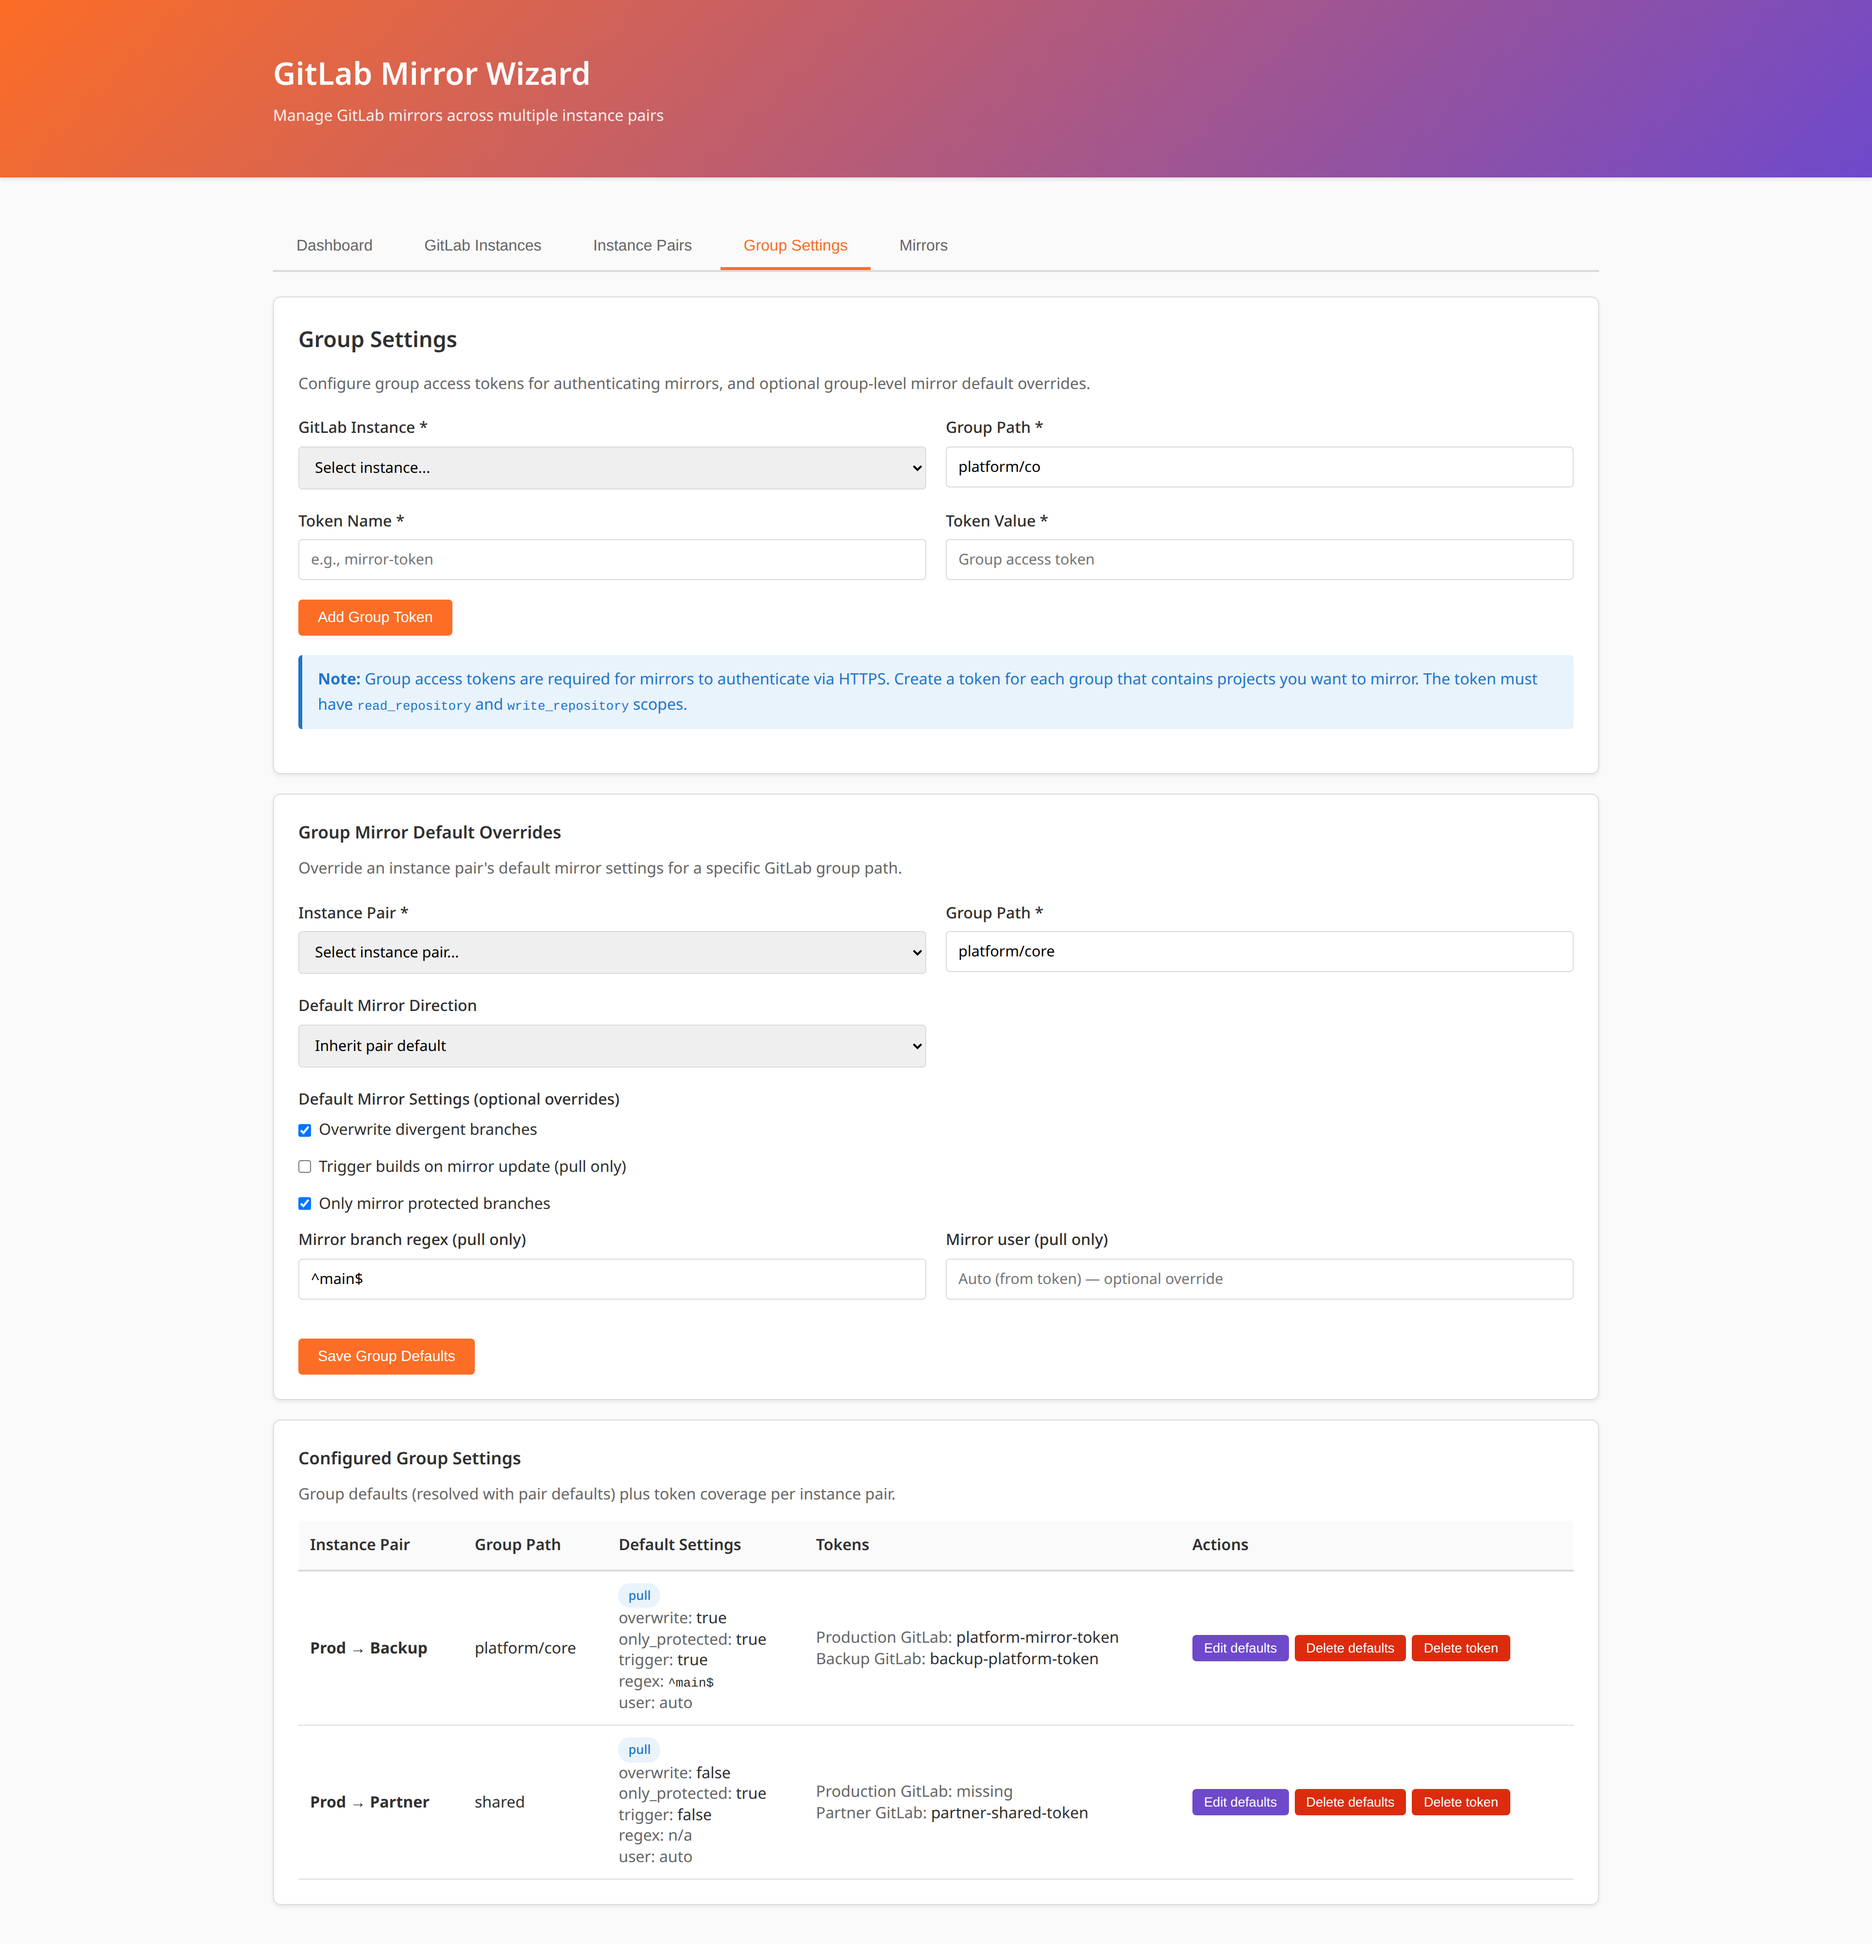
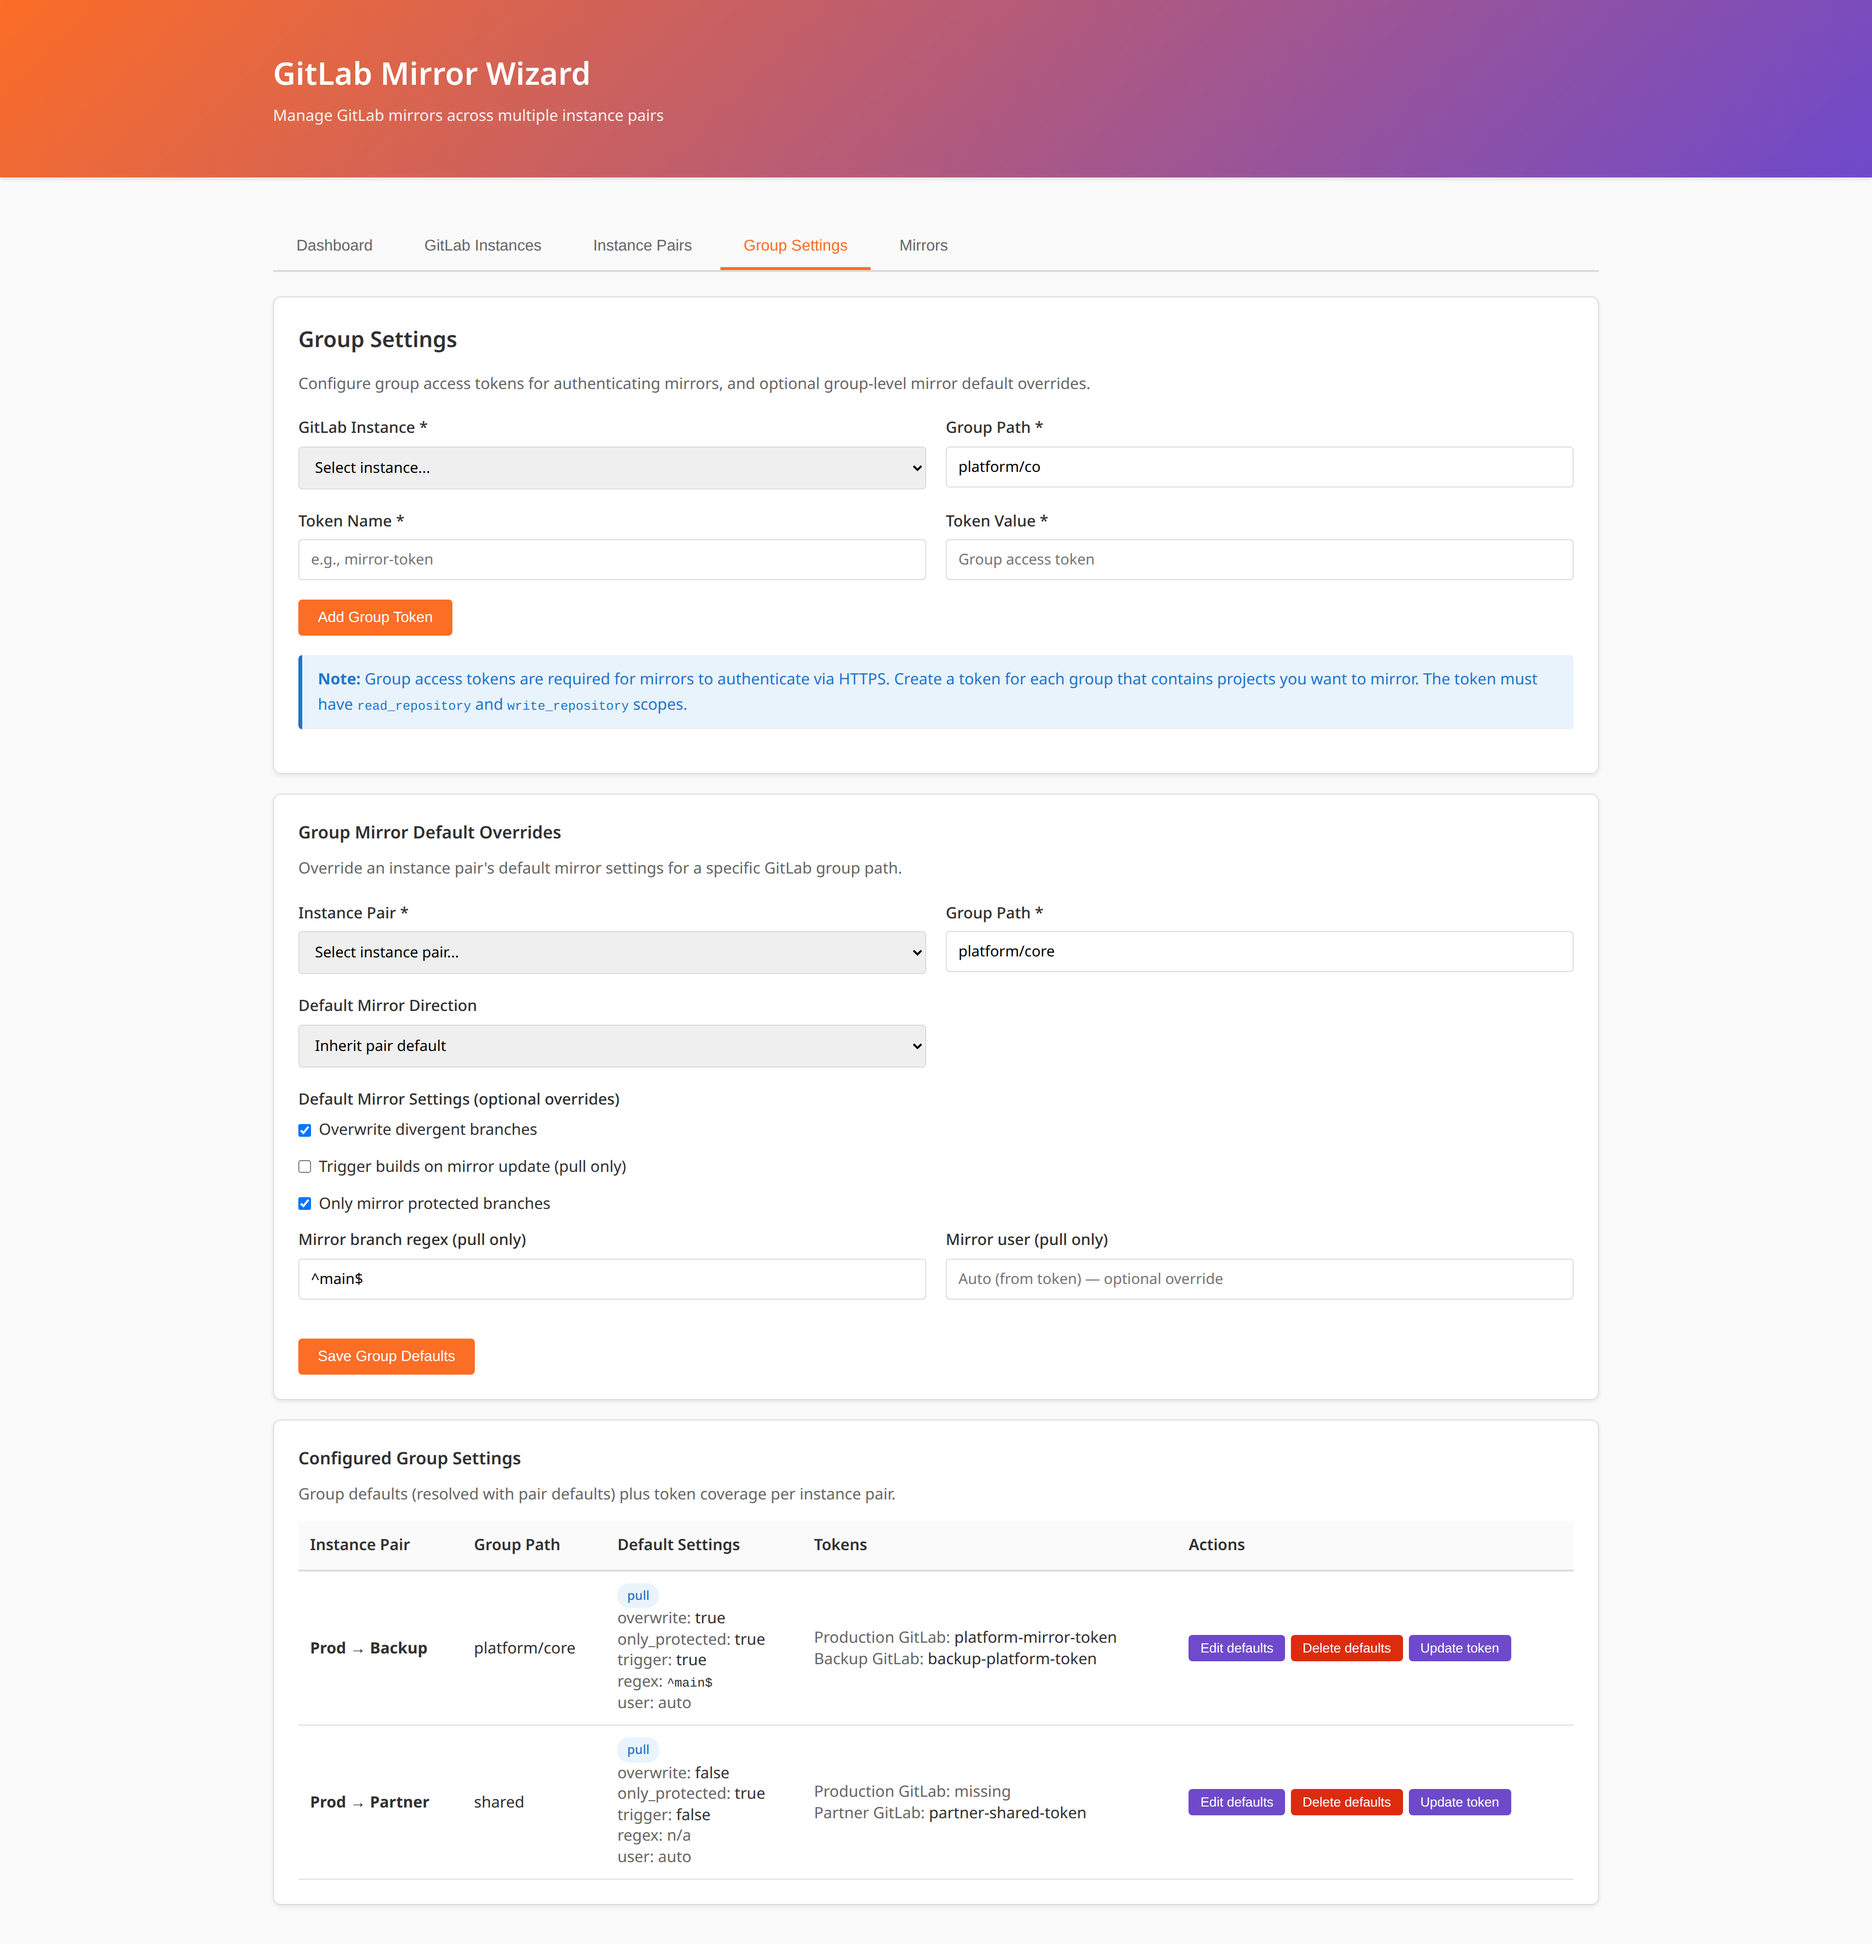
feat: Add ability to update group access tokens
This commit introduces the functionality to update existing group access tokens. It includes UI changes to support editing, a new API endpoint for updates, and corresponding JavaScript logic. The "Delete token" button has been replaced with "Update token" where applicable.

diff --git a/app/static/js/app.js b/app/static/js/app.js
@@ -11,6 +11,7 @@ const state = {
         instanceId: null,
         pairId: null,
         mirrorId: null,
+        tokenId: null,
     },
 };
 
@@ -146,7 +147,14 @@ function setupEventListeners() {
     // Token form
     document.getElementById('token-form')?.addEventListener('submit', async (e) => {
         e.preventDefault();
-        await createToken();
+        if (state.editing?.tokenId) {
+            await updateToken();
+        } else {
+            await createToken();
+        }
+    });
+    document.getElementById('token-cancel-edit')?.addEventListener('click', () => {
+        cancelTokenEdit();
     });
 
     // Group path typeahead (token form)
@@ -330,7 +338,10 @@ function renderInstances(instances) {
                         ${escapeHtml(instance.url)}
                     </td>
                     <td>
-                        <input class="table-input" id="edit-instance-description-${instance.id}" value="${escapeHtml(instance.description || '')}">
+                        <div style="display:grid; gap:8px">
+                            <input class="table-input" id="edit-instance-description-${instance.id}" value="${escapeHtml(instance.description || '')}" placeholder="Description (optional)">
+                            <input class="table-input" type="password" id="edit-instance-token-${instance.id}" value="" placeholder="New access token (leave blank to keep existing)">
+                        </div>
                     </td>
                     <td>
                         <div class="table-actions">
@@ -362,6 +373,7 @@ function beginInstanceEdit(id) {
     state.editing.instanceId = id;
     state.editing.pairId = null;
     state.editing.mirrorId = null;
+    state.editing.tokenId = null;
     renderInstances(state.instances);
 }
 
@@ -373,12 +385,17 @@ function cancelInstanceEdit() {
 async function saveInstanceEdit(id) {
     const nameEl = document.getElementById(`edit-instance-name-${id}`);
     const descEl = document.getElementById(`edit-instance-description-${id}`);
+    const tokenEl = document.getElementById(`edit-instance-token-${id}`);
     if (!nameEl || !descEl) return;
 
     const payload = {
         name: (nameEl.value || '').toString().trim(),
         description: (descEl.value || '').toString().trim() || null,
     };
+    const tokenRaw = (tokenEl?.value || '').toString().trim();
+    if (tokenRaw) {
+        payload.token = tokenRaw;
+    }
 
     try {
         await apiRequest(`/api/instances/${id}`, {
@@ -602,6 +619,7 @@ function beginPairEdit(id) {
     state.editing.pairId = id;
     state.editing.instanceId = null;
     state.editing.mirrorId = null;
+    state.editing.tokenId = null;
     renderPairs(state.pairs);
     setTimeout(() => applyPairEditDirection(id), 0);
 }
@@ -803,9 +821,104 @@ async function createToken() {
 
         showMessage('Group access token added successfully', 'success');
         form.reset();
+        cancelTokenEdit();
         await loadTokens();
     } catch (error) {
         console.error('Failed to create token:', error);
+    }
+}
+
+function _setTokenFormEditMode(isEditing) {
+    const submit = document.getElementById('token-submit');
+    const cancel = document.getElementById('token-cancel-edit');
+    const instanceSel = document.getElementById('token-instance');
+    const groupPathEl = document.getElementById('token-group-path');
+    const tokenEl = document.getElementById('token-value');
+    if (submit) submit.textContent = isEditing ? 'Update Token' : 'Add Group Token';
+    if (cancel) cancel.classList.toggle('hidden', !isEditing);
+
+    // Avoid breaking existing mirror auth by changing the lookup key in-place.
+    if (instanceSel) instanceSel.disabled = !!isEditing;
+    if (groupPathEl) groupPathEl.disabled = !!isEditing;
+
+    if (!isEditing) {
+        if (instanceSel) instanceSel.disabled = false;
+        if (groupPathEl) groupPathEl.disabled = false;
+    }
+
+    // In edit mode, the user must re-enter a fresh token value (we never display the old token).
+    if (tokenEl) {
+        tokenEl.required = true;
+        tokenEl.placeholder = isEditing ? 'Paste new token value' : 'Group access token';
+    }
+}
+
+function beginTokenEdit(tokenId) {
+    const token = (state.tokens || []).find(t => t.id === tokenId);
+    if (!token) return;
+
+    state.editing.tokenId = tokenId;
+    state.editing.instanceId = null;
+    state.editing.pairId = null;
+    state.editing.mirrorId = null;
+
+    const instanceSel = document.getElementById('token-instance');
+    const groupPathEl = document.getElementById('token-group-path');
+    const nameEl = document.getElementById('token-name');
+    const tokenEl = document.getElementById('token-value');
+
+    if (instanceSel) instanceSel.value = String(token.gitlab_instance_id);
+    if (groupPathEl) groupPathEl.value = token.group_path || '';
+    if (nameEl) nameEl.value = token.token_name || '';
+    if (tokenEl) tokenEl.value = '';
+
+    _setTokenFormEditMode(true);
+    document.getElementById('token-form')?.scrollIntoView({ behavior: 'smooth', block: 'start' });
+}
+
+function cancelTokenEdit() {
+    state.editing.tokenId = null;
+    _setTokenFormEditMode(false);
+
+    const instanceSel = document.getElementById('token-instance');
+    const groupPathEl = document.getElementById('token-group-path');
+    const nameEl = document.getElementById('token-name');
+    const tokenEl = document.getElementById('token-value');
+    if (instanceSel) instanceSel.disabled = false;
+    if (groupPathEl) groupPathEl.disabled = false;
+    if (nameEl) nameEl.value = '';
+    if (tokenEl) tokenEl.value = '';
+}
+
+async function updateToken() {
+    const tokenId = state.editing?.tokenId;
+    if (!tokenId) return;
+
+    const nameEl = document.getElementById('token-name');
+    const tokenEl = document.getElementById('token-value');
+    if (!nameEl || !tokenEl) return;
+
+    const tokenValue = (tokenEl.value || '').toString().trim();
+    if (!tokenValue) {
+        showMessage('Please paste a new token value', 'error');
+        return;
+    }
+
+    const payload = {
+        token_name: (nameEl.value || '').toString().trim(),
+        token: tokenValue,
+    };
+
+    try {
+        await apiRequest(`/api/tokens/${tokenId}`, {
+            method: 'PUT',
+            body: JSON.stringify(payload),
+        });
+        showMessage('Group access token updated successfully', 'success');
+        cancelTokenEdit();
+        await loadTokens();
+    } catch (error) {
+        console.error('Failed to update token:', error);
     }
 }
 
@@ -945,8 +1058,8 @@ function renderGroupSettings() {
             const actions = [];
             if (gd) actions.push(`<button class="btn btn-secondary btn-small" onclick="editGroupDefaults(${gd.id})">Edit defaults</button>`);
             if (gd) actions.push(`<button class="btn btn-danger btn-small" onclick="deleteGroupDefaults(${gd.id})">Delete defaults</button>`);
-            if (srcTok) actions.push(`<button class="btn btn-danger btn-small" onclick="deleteToken(${srcTok.id})" title="Delete token on ${escapeHtml(srcName)}">Delete token</button>`);
-            if (tgtTok) actions.push(`<button class="btn btn-danger btn-small" onclick="deleteToken(${tgtTok.id})" title="Delete token on ${escapeHtml(tgtName)}">Delete token</button>`);
+            if (srcTok) actions.push(`<button class="btn btn-secondary btn-small" onclick="beginTokenEdit(${srcTok.id})" title="Update token on ${escapeHtml(srcName)}">Update token</button>`);
+            if (tgtTok) actions.push(`<button class="btn btn-secondary btn-small" onclick="beginTokenEdit(${tgtTok.id})" title="Update token on ${escapeHtml(tgtName)}">Update token</button>`);
             const actionsCell = actions.length
                 ? `<div class="flex" style="gap:6px; flex-wrap:wrap">${actions.join('')}</div>`
                 : '<span class="text-muted">N/A</span>';
@@ -1327,6 +1440,7 @@ function beginMirrorEdit(id) {
     state.editing.mirrorId = id;
     state.editing.instanceId = null;
     state.editing.pairId = null;
+    state.editing.tokenId = null;
     renderMirrors(state.mirrors);
     setTimeout(() => applyMirrorEditControls(id), 0);
 }

diff --git a/docs/screenshots/demo-tokens.html b/docs/screenshots/demo-tokens.html
@@ -176,7 +176,7 @@
                                 <div class="flex" style="gap:6px; flex-wrap:wrap">
                                     <button class="btn btn-secondary btn-small">Edit defaults</button>
                                     <button class="btn btn-danger btn-small">Delete defaults</button>
-                                    <button class="btn btn-danger btn-small">Delete token</button>
+                                    <button class="btn btn-secondary btn-small">Update token</button>
                                 </div>
                             </td>
                         </tr>
@@ -203,7 +203,7 @@
                                 <div class="flex" style="gap:6px; flex-wrap:wrap">
                                     <button class="btn btn-secondary btn-small">Edit defaults</button>
                                     <button class="btn btn-danger btn-small">Delete defaults</button>
-                                    <button class="btn btn-danger btn-small">Delete token</button>
+                                    <button class="btn btn-secondary btn-small">Update token</button>
                                 </div>
                             </td>
                         </tr>

diff --git a/app/templates/index.html b/app/templates/index.html
@@ -253,7 +253,10 @@
                         </div>
                     </div>
 
-                    <button type="submit" class="btn btn-primary">Add Group Token</button>
+                    <div class="flex" style="gap:10px; flex-wrap:wrap">
+                        <button type="submit" id="token-submit" class="btn btn-primary">Add Group Token</button>
+                        <button type="button" id="token-cancel-edit" class="btn btn-secondary hidden">Cancel edit</button>
+                    </div>
                 </form>
 
                 <div class="message message-info mt-20">
